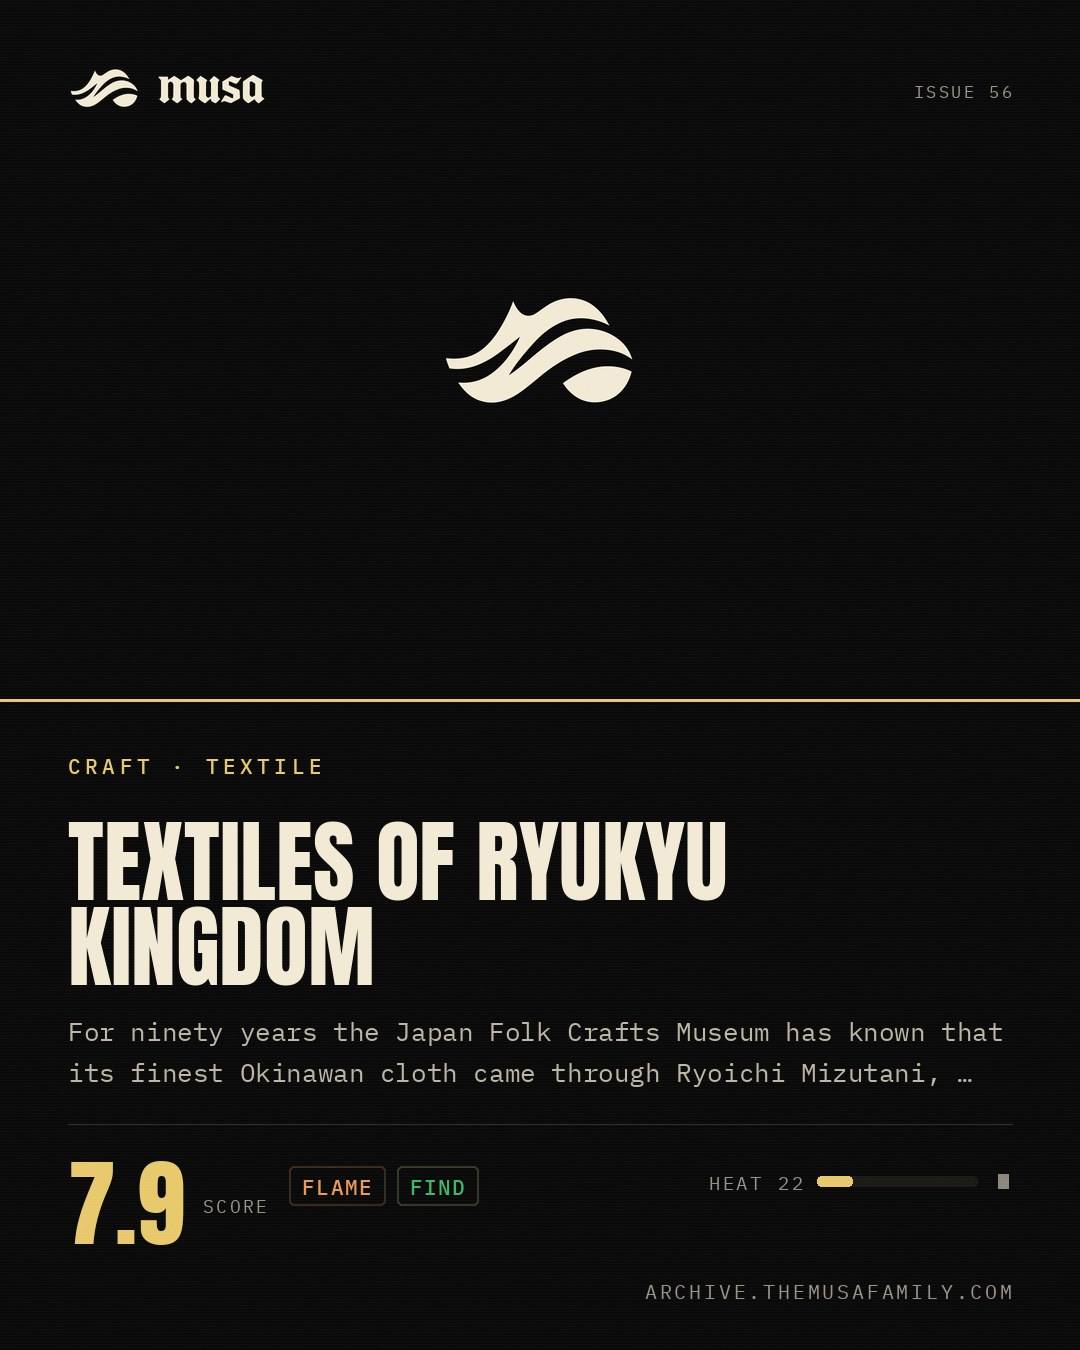
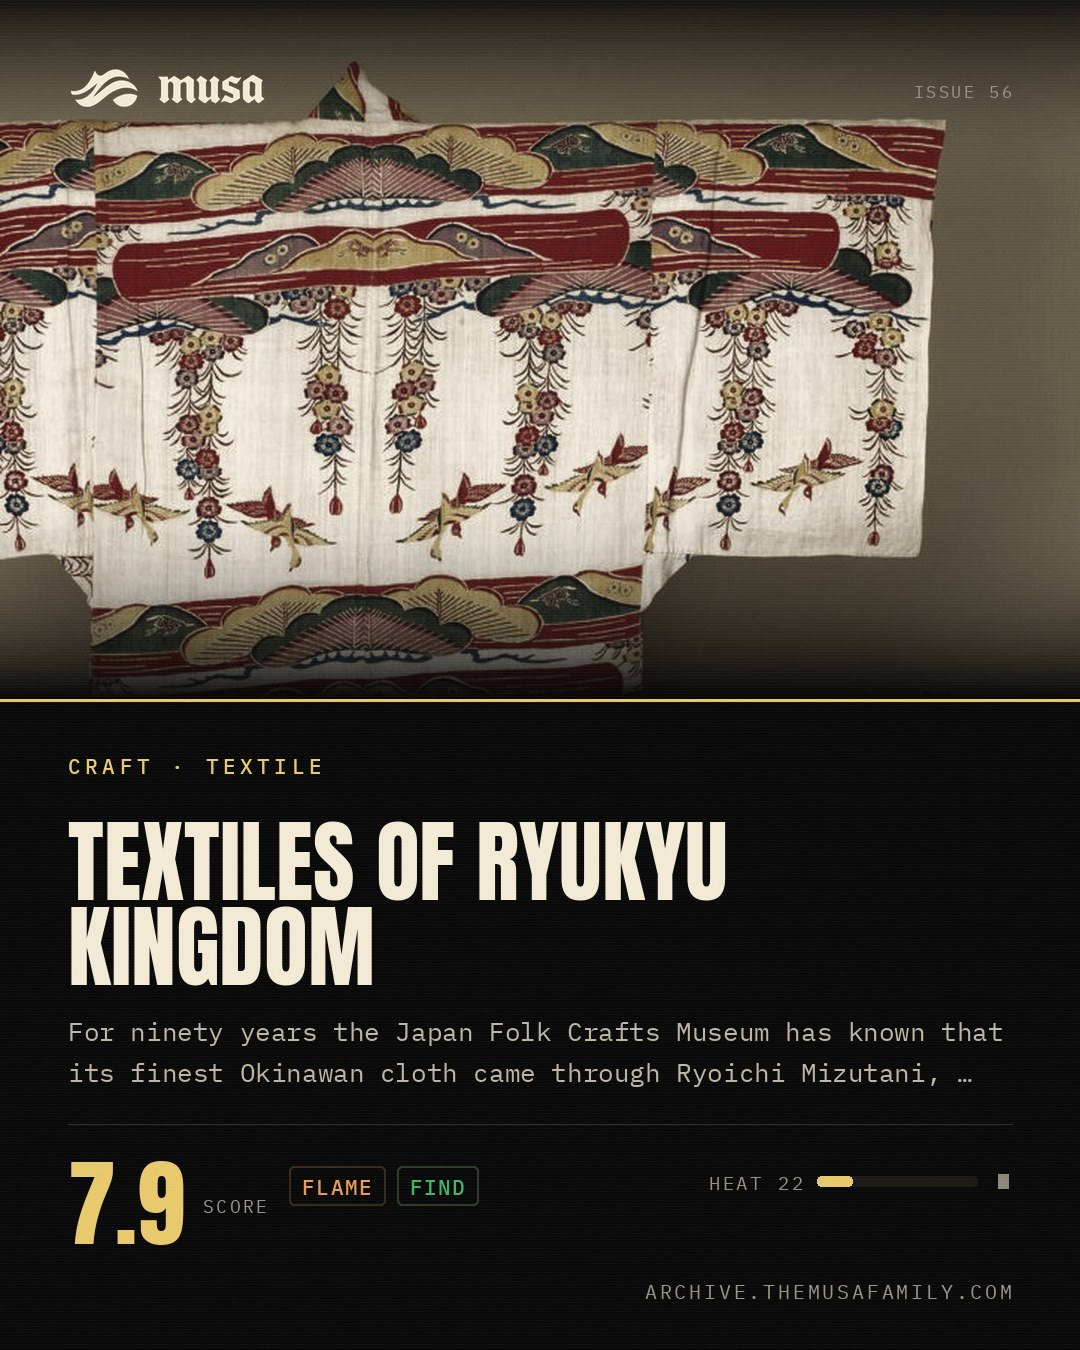
Cache entry art and rebuild cards [auto]

diff --git a/i/denim-tears/index.html b/i/denim-tears/index.html
@@ -131,7 +131,7 @@ footer b{font-family:var(--mono);font-size:9px;color:#b8b09c;letter-spacing:.2em
 </header>
 <div class="eyebrow">ISSUE 59 &nbsp;·&nbsp; <span class="a">AUG 16 2026</span> &nbsp;·&nbsp; FASHION · DIASPORIC STREETWEAR</div>
 <h1>Denim Tears</h1>
-<figure class="art"><img src="https://archive.themusafamily.com/img/musa-mark.png" alt="Denim Tears" loading="lazy" style="height:320px;object-fit:contain;background:#0a0a0a" onerror="this.onerror=null;this.src='https://archive.themusafamily.com/img/musa-mark.png';this.style.objectFit='contain';this.style.background='#0a0a0a'"></figure>
+<figure class="art"><img src="https://denimtears.com/cdn/shop/files/FW26_Lookbook_July_28_2026_1_s.jpg?v=1786644509&amp;width=800" alt="Denim Tears" loading="lazy" onerror="this.onerror=null;this.src='https://archive.themusafamily.com/img/musa-mark.png';this.style.objectFit='contain';this.style.background='#0a0a0a'"></figure>
 <div class="read">Denim Tears spent August teaching a lookbook to grieve properly. Tremaine Emory&#x27;s Fall/Winter 2026 collection, previewed August 3 and shipping across five drops beginning August 14, rebuilds André Leon Talley&#x27;s wardrobe piece by piece — a Billionaire Boys Club sweater Talley wore to New York Fashion Week in 2010, reconstructed alongside a Stüssy collaboration, a panther-print chino, and Denim Tears&#x27; own signature parka. The brand&#x27;s whole method has always been this: clothing as an inheritance document rather than a costume. Talley died in 2022 at 73; the collection doesn&#x27;t costume his death, it continues his argument — that Black taste-making deserves the same reverence white couture houses give their own dead. Models include Edward Buchanan and André Walker, both of whom actually knew him, which is the difference between a tribute and a séance. Emory has spent three years turning Denim Tears from a Levi&#x27;s collaboration into a publishing house that happens to sell clothes; this is his most explicit thesis yet on who gets remembered, and who has to be re-remembered on purpose.</div>
 <div class="rail">
   <span class="sc">9.2<small>SCORE</small></span>

diff --git a/i/pooh-shiesty-all-eyes-on-shiest/index.html b/i/pooh-shiesty-all-eyes-on-shiest/index.html
@@ -131,7 +131,7 @@ footer b{font-family:var(--mono);font-size:9px;color:#b8b09c;letter-spacing:.2em
 </header>
 <div class="eyebrow">ISSUE 60 &nbsp;·&nbsp; <span class="a">AUG 17 2026</span> &nbsp;·&nbsp; MUSIC · MEMPHIS TRAP</div>
 <h1>Pooh Shiesty — All Eyes on Shiest</h1>
-<figure class="art"><img src="https://archive.themusafamily.com/img/musa-mark.png" alt="Pooh Shiesty — All Eyes on Shiest" loading="lazy" style="height:320px;object-fit:contain;background:#0a0a0a" onerror="this.onerror=null;this.src='https://archive.themusafamily.com/img/musa-mark.png';this.style.objectFit='contain';this.style.background='#0a0a0a'"></figure>
+<figure class="art"><img src="https://www.revolt.tv/article/media_1a6d6e0c8d978746876f7dbb57c2400ae4dd54a6b.jpg?width=1200&amp;format=pjpg&amp;optimize=medium" alt="Pooh Shiesty — All Eyes on Shiest" loading="lazy" onerror="this.onerror=null;this.src='https://archive.themusafamily.com/img/musa-mark.png';this.style.objectFit='contain';this.style.background='#0a0a0a'"></figure>
 <div class="read">Pooh Shiesty can still write a hook that works as threat and prayer at once, and “Last Man Breathin” is the proof: piano, violin, a man counting his own release date against a friend&#x27;s 75-year sentence. All Eyes on Shiest arrived on August 7 through 1017 Global and Atlantic, sixteen tracks assembled and released while he sits in federal custody in Dallas awaiting a February 22, 2027 trial on kidnapping and robbery charges involving the founder of the label that signed him. Almost all of the attention is on the case file. The record is the smaller object in the room, and it plays like a placeholder cut to fit a news cycle rather than a first album. Come back after the trial date and see whether there is a body of work behind the headline.</div>
 <div class="rail">
   <span class="sc">5.7<small>SCORE</small></span>

diff --git a/i/the-cataclysm-of-binary-star-systems-603-arts-foundation/index.html b/i/the-cataclysm-of-binary-star-systems-603-arts-foundation/index.html
@@ -131,7 +131,7 @@ footer b{font-family:var(--mono);font-size:9px;color:#b8b09c;letter-spacing:.2em
 </header>
 <div class="eyebrow">ISSUE 59 &nbsp;·&nbsp; <span class="a">AUG 16 2026</span> &nbsp;·&nbsp; ART · DIASPORIC GROUP SHOW</div>
 <h1>The Cataclysm of Binary Star Systems — 603 Arts Foundation</h1>
-<figure class="art"><img src="https://archive.themusafamily.com/img/musa-mark.png" alt="The Cataclysm of Binary Star Systems — 603 Arts Foundation" loading="lazy" style="height:320px;object-fit:contain;background:#0a0a0a" onerror="this.onerror=null;this.src='https://archive.themusafamily.com/img/musa-mark.png';this.style.objectFit='contain';this.style.background='#0a0a0a'"></figure>
+<figure class="art"><img src="https://www.amny.com/wp-content/uploads/2026/08/Cesar-Lopez-Sacred-Calendar.jpg?quality=51&amp;w=1200&amp;p=q" alt="The Cataclysm of Binary Star Systems — 603 Arts Foundation" loading="lazy" onerror="this.onerror=null;this.src='https://archive.themusafamily.com/img/musa-mark.png';this.style.objectFit='contain';this.style.background='#0a0a0a'"></figure>
 <div class="read">A new foundation opened its account on August 8 by imagining the end of the sun. The Cataclysm of Binary Star Systems, the inaugural show from 603 Arts Foundation at Nunu Fine Art in SoHo, gathers twelve artists from nine countries across Asia, Latin America, and their diasporas — four showing in the US for the first time — around a premise borrowed from astrophysics: two stars close enough to strip each other of matter until nothing habitable is left. Founders Kate Lee and Clovis Lima Jr. are betting the foundation&#x27;s first move on migration read as inheritance, not tragedy. On view through August 29.</div>
 <div class="rail">
   <span class="sc">7.0<small>SCORE</small></span>

diff --git a/i/textiles-of-ryukyu-kingdom/index.html b/i/textiles-of-ryukyu-kingdom/index.html
@@ -131,7 +131,7 @@ footer b{font-family:var(--mono);font-size:9px;color:#b8b09c;letter-spacing:.2em
 </header>
 <div class="eyebrow">ISSUE 56 &nbsp;·&nbsp; <span class="a">AUG 8 2026</span> &nbsp;·&nbsp; CRAFT · TEXTILE</div>
 <h1>Textiles of Ryukyu Kingdom</h1>
-<figure class="art"><img src="https://archive.themusafamily.com/img/musa-mark.png" alt="Textiles of Ryukyu Kingdom" loading="lazy" style="height:320px;object-fit:contain;background:#0a0a0a" onerror="this.onerror=null;this.src='https://archive.themusafamily.com/img/musa-mark.png';this.style.objectFit='contain';this.style.background='#0a0a0a'"></figure>
+<figure class="art"><img src="https://mingeikan.or.jp/wp-content/uploads/2025/11/poster_202608-724x1024.jpg" alt="Textiles of Ryukyu Kingdom" loading="lazy" onerror="this.onerror=null;this.src='https://archive.themusafamily.com/img/musa-mark.png';this.style.objectFit='contain';this.style.background='#0a0a0a'"></figure>
 <div class="read">For ninety years the Japan Folk Crafts Museum has known that its finest Okinawan cloth came through Ryoichi Mizutani, and not which pieces were which. Mizutani, a collaborator in the Mingei movement, bought them on Sōetsu Yanagi&#x27;s recommendation from Goeku Chosho, fifteenth head of a branch house of the Shō clan that ruled the Ryukyu Kingdom until its independence ended in 1879. This show identifies them. Roughly fifty bingata and woven works, hung with other objects tied to the Shō family, opening August 22 and running to November 3 for the museum&#x27;s ninetieth anniversary. A prince&#x27;s wardrobe, cataloged at last, in a building that holds seventeen thousand things and explains almost none of them on the wall.</div>
 <div class="rail">
   <span class="sc">7.9<small>SCORE</small></span>

diff --git a/i/the-renovation-kenan-orhan/index.html b/i/the-renovation-kenan-orhan/index.html
@@ -131,7 +131,7 @@ footer b{font-family:var(--mono);font-size:9px;color:#b8b09c;letter-spacing:.2em
 </header>
 <div class="eyebrow">ISSUE 54 &nbsp;·&nbsp; <span class="a">AUG 5 2026</span> &nbsp;·&nbsp; BOOKS · FICTION</div>
 <h1>The Renovation — Kenan Orhan</h1>
-<figure class="art"><img src="https://archive.themusafamily.com/img/musa-mark.png" alt="The Renovation — Kenan Orhan" loading="lazy" style="height:320px;object-fit:contain;background:#0a0a0a" onerror="this.onerror=null;this.src='https://archive.themusafamily.com/img/musa-mark.png';this.style.objectFit='contain';this.style.background='#0a0a0a'"></figure>
+<figure class="art"><img src="https://thebookerprizes.com/sites/default/files/styles/social_share_canvas/public/2026-07/The%20Renovation%20Jacket_NEW.jpeg?itok=nmIjznyv" alt="The Renovation — Kenan Orhan" loading="lazy" onerror="this.onerror=null;this.src='https://archive.themusafamily.com/img/musa-mark.png';this.style.objectFit='contain';this.style.background='#0a0a0a'"></figure>
 <div class="read">The most literal book on this year&#x27;s Booker longlist is also the strangest. Dilara, a Turkish exile in a village outside Salerno, hires builders to add a second bathroom so she can care for her father, who has dementia. They install a Turkish prison cell instead, staffed, and somehow wired to a prison in Istanbul. Kenan Orhan writes from Kansas and has not let the Gezi-to-purges decade go; his 2023 story collection was a PEN/Robert W. Bingham finalist. The device reads as a stunt for roughly ten pages and then stops being one. Longlisted July 28 from 163 submissions; shortlist September 22. Hamish Hamilton, March 26, 256 pages, £16.99.</div>
 <div class="rail">
   <span class="sc">8.0<small>SCORE</small></span>

diff --git a/i/palais-jamai-fes/index.html b/i/palais-jamai-fes/index.html
@@ -131,7 +131,7 @@ footer b{font-family:var(--mono);font-size:9px;color:#b8b09c;letter-spacing:.2em
 </header>
 <div class="eyebrow">ISSUE 59 &nbsp;·&nbsp; <span class="a">AUG 16 2026</span> &nbsp;·&nbsp; ARCHITECTURE · HERITAGE RESTORATION</div>
 <h1>Palais Jamaï, Fès</h1>
-<figure class="art"><img src="https://archive.themusafamily.com/img/musa-mark.png" alt="Palais Jamaï, Fès" loading="lazy" style="height:320px;object-fit:contain;background:#0a0a0a" onerror="this.onerror=null;this.src='https://archive.themusafamily.com/img/musa-mark.png';this.style.objectFit='contain';this.style.background='#0a0a0a'"></figure>
+<figure class="art"><img src="https://upload.wikimedia.org/wikipedia/commons/thumb/b/b2/29610-Fez_%2828134041211%29_%28Jamai_crop%29.jpg/1280px-29610-Fez_%2828134041211%29_%28Jamai_crop%29.jpg?utm_source=en.wikipedia.org&amp;utm_campaign=index&amp;utm_content=thumbnail" alt="Palais Jamaï, Fès" loading="lazy" onerror="this.onerror=null;this.src='https://archive.themusafamily.com/img/musa-mark.png';this.style.objectFit='contain';this.style.background='#0a0a0a'"></figure>
 <div class="read">Palais Jamaï closed in 2014, and Fès waited twelve years for the state railway company that owns it to finish rebuilding a Grand Vizier&#x27;s mansion into something guests could sleep in again. The restoration reopens this spring under the Preferred Hotels Legend Collection, with Alain Ducasse running the kitchens: 94 rooms carved from a 19th-century Fes el-Bali compound, zellij tilework and carved cedar intact from the original build. Still, the tilework is the tilework. Come back when the reviews are in.</div>
 <div class="rail">
   <span class="sc">6.3<small>SCORE</small></span>

diff --git a/i/chale-wote-2026/index.html b/i/chale-wote-2026/index.html
@@ -131,7 +131,7 @@ footer b{font-family:var(--mono);font-size:9px;color:#b8b09c;letter-spacing:.2em
 </header>
 <div class="eyebrow">ISSUE 55 &nbsp;·&nbsp; <span class="a">AUG 6 2026</span> &nbsp;·&nbsp; SCENE · STREET FESTIVAL</div>
 <h1>Chale Wote 2026</h1>
-<figure class="art"><img src="https://archive.themusafamily.com/img/musa-mark.png" alt="Chale Wote 2026" loading="lazy" style="height:320px;object-fit:contain;background:#0a0a0a" onerror="this.onerror=null;this.src='https://archive.themusafamily.com/img/musa-mark.png';this.style.objectFit='contain';this.style.background='#0a0a0a'"></figure>
+<figure class="art"><img src="https://accradotaltradio.com/wp-content/uploads/2024/08/IMG-20240814-WA0026.jpg" alt="Chale Wote 2026" loading="lazy" onerror="this.onerror=null;this.src='https://archive.themusafamily.com/img/musa-mark.png';this.style.objectFit='contain';this.style.background='#0a0a0a'"></figure>
 <div class="read">Jamestown and Osu are handed over from Monday, August 10 to Monday, August 17. The fifteenth Chale Wote runs on a schedule most institutions would not print: artists build the work on site between August 1 and 9, then show it for a week in the street. Entry is free and has been since 2011, when ACCRA [dot] ALT started it with Redd Kat Pictures and the Chale Wote Street Art Projekt. The name is Ga for friend, let&#x27;s go, and it is also what Ghanaians call the rubber flip-flop, which settles who it was addressed to before anyone flew in. James Fort still stands at the water&#x27;s edge, the harbor still works, and the murals from earlier years are permanent addresses now.</div>
 <div class="rail">
   <span class="sc">8.1<small>SCORE</small></span>

diff --git a/i/suno-vinyl/index.html b/i/suno-vinyl/index.html
@@ -131,7 +131,7 @@ footer b{font-family:var(--mono);font-size:9px;color:#b8b09c;letter-spacing:.2em
 </header>
 <div class="eyebrow">ISSUE 61 &nbsp;·&nbsp; <span class="a">AUG 20 2026</span> &nbsp;·&nbsp; TECH · AI MUSIC</div>
 <h1>Suno Vinyl</h1>
-<figure class="art"><img src="https://archive.themusafamily.com/img/musa-mark.png" alt="Suno Vinyl" loading="lazy" style="height:320px;object-fit:contain;background:#0a0a0a" onerror="this.onerror=null;this.src='https://archive.themusafamily.com/img/musa-mark.png';this.style.objectFit='contain';this.style.background='#0a0a0a'"></figure>
+<figure class="art"><img src="https://www.musicbusinessworldwide.com/files/2026/08/Screenshot-2026-08-06-at-13.27.00-e1786019290303.jpg" alt="Suno Vinyl" loading="lazy" onerror="this.onerror=null;this.src='https://archive.themusafamily.com/img/musa-mark.png';this.style.objectFit='contain';this.style.background='#0a0a0a'"></figure>
 <div class="read">Suno has read the room correctly. People want to hold the thing, and a file will not do it, so on August 6 the company opened a waitlist: up to 46 minutes from your library, pressed to a 12-inch black PETG disc, sleeve and labels of your own design, around $45 plus shipping. The pitch reads &quot;Some songs deserve more than a stream.&quot; Missing is everything a record buyer asks next. No plant named, no mastering chain, no weight, no tolerances, and nothing shipped yet. A Munich court ruled against the company in GEMA&#x27;s case this month. The object is doing the argument the catalog has not won. Come back when the first discs land and somebody plays one twice.</div>
 <div class="rail">
   <span class="sc">5.2<small>SCORE</small></span>

diff --git a/i/fatboi-sharif-and-e-l-u-c-i-d/index.html b/i/fatboi-sharif-and-e-l-u-c-i-d/index.html
@@ -131,7 +131,7 @@ footer b{font-family:var(--mono);font-size:9px;color:#b8b09c;letter-spacing:.2em
 </header>
 <div class="eyebrow">ISSUE 59 &nbsp;·&nbsp; <span class="a">AUG 16 2026</span> &nbsp;·&nbsp; MUSIC · EXPERIMENTAL RAP</div>
 <h1>Fatboi Sharif &amp; E L U C I D</h1>
-<figure class="art"><img src="https://archive.themusafamily.com/img/musa-mark.png" alt="Fatboi Sharif &amp; E L U C I D" loading="lazy" style="height:320px;object-fit:contain;background:#0a0a0a" onerror="this.onerror=null;this.src='https://archive.themusafamily.com/img/musa-mark.png';this.style.objectFit='contain';this.style.background='#0a0a0a'"></figure>
+<figure class="art"><img src="https://f4.bcbits.com/img/a2756749170_5.jpg" alt="Fatboi Sharif &amp; E L U C I D" loading="lazy" onerror="this.onerror=null;this.src='https://archive.themusafamily.com/img/musa-mark.png';this.style.objectFit='contain';this.style.background='#0a0a0a'"></figure>
 <div class="read">Fatboi Sharif and E L U C I D turned eleven minutes into a statement on August 12, and streaming services list it as one track out of spite. Invasion Body Camera compresses six songs — Rage, the title cut featuring Beans, God Is an Eternal Concorde — into a single unskippable file, East New York production wrapped around Rahway&#x27;s most consistently unsettling voice. E L U C I D wrote, produced, engineered, and mixed the whole thing himself, which explains why it sounds like one nervous system instead of a placement reel. It&#x27;s Sharif&#x27;s fourth release of 2026. Nobody&#x27;s asking him to slow down; the catalog is the argument.</div>
 <div class="rail">
   <span class="sc">8.3<small>SCORE</small></span>

diff --git a/i/slawn-the-rolex-multiverse/index.html b/i/slawn-the-rolex-multiverse/index.html
@@ -131,7 +131,7 @@ footer b{font-family:var(--mono);font-size:9px;color:#b8b09c;letter-spacing:.2em
 </header>
 <div class="eyebrow">ISSUE 62 &nbsp;·&nbsp; <span class="a">AUG 20 2026</span> &nbsp;·&nbsp; ART · POP GRAPHIC</div>
 <h1>Slawn — The Rolex Multiverse</h1>
-<figure class="art"><img src="https://archive.themusafamily.com/img/musa-mark.png" alt="Slawn — The Rolex Multiverse" loading="lazy" style="height:320px;object-fit:contain;background:#0a0a0a" onerror="this.onerror=null;this.src='https://archive.themusafamily.com/img/musa-mark.png';this.style.objectFit='contain';this.style.background='#0a0a0a'"></figure>
+<figure class="art"><img src="https://pausemag.co.uk/wp-content/uploads/2026/08/Copy-of-Untitled-1200-x-800-px-7-600x403.png" alt="Slawn — The Rolex Multiverse" loading="lazy" onerror="this.onerror=null;this.src='https://archive.themusafamily.com/img/musa-mark.png';this.style.objectFit='contain';this.style.background='#0a0a0a'"></figure>
 <div class="read">Nobody moves an image faster. Slawn&#x27;s caricatures have been on a BRIT statuette, the FA Cup, Nigeria&#x27;s World Cup kit and, since Tuesday, a Playboi Carti chain; the Rolex Multiverse puts them on twelve one-of-one watches released one at a time across August. His 2024 Rolex run sold out in four minutes. The placements have traveled further than the paintings. Come back when there is a show with no logo in the room.</div>
 <div class="rail">
   <span class="sc">6.4<small>SCORE</small></span>
